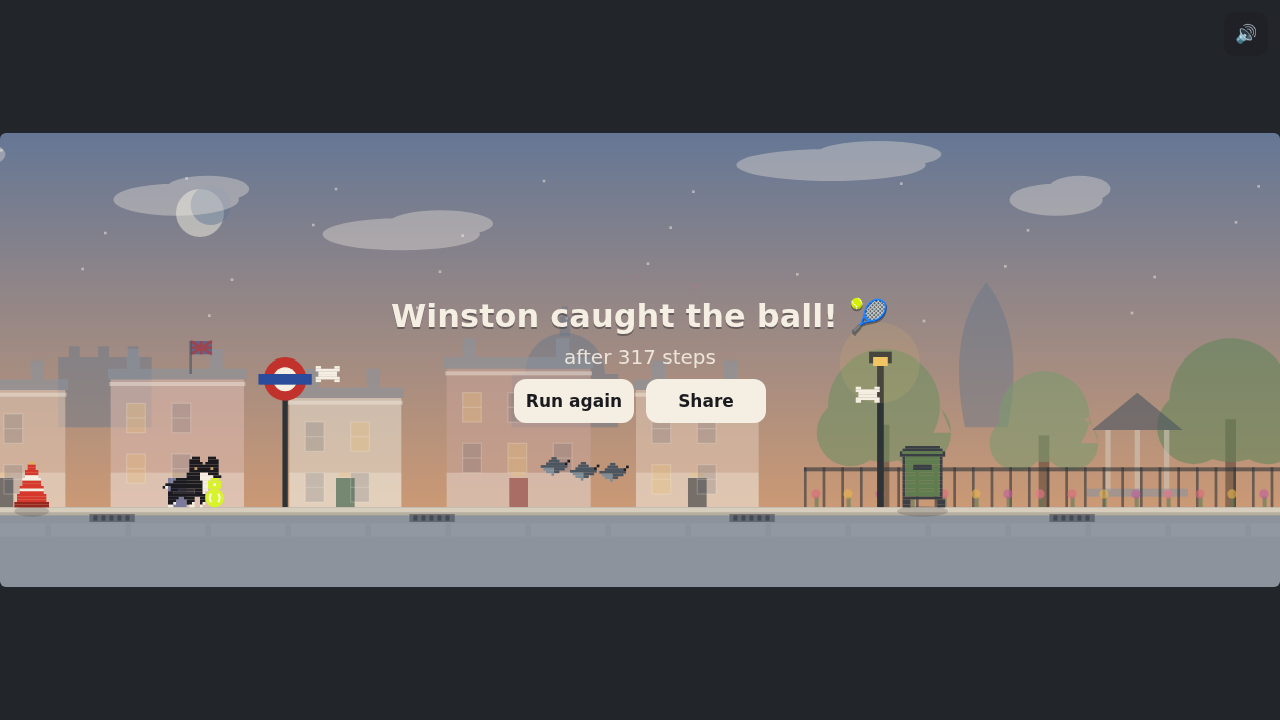
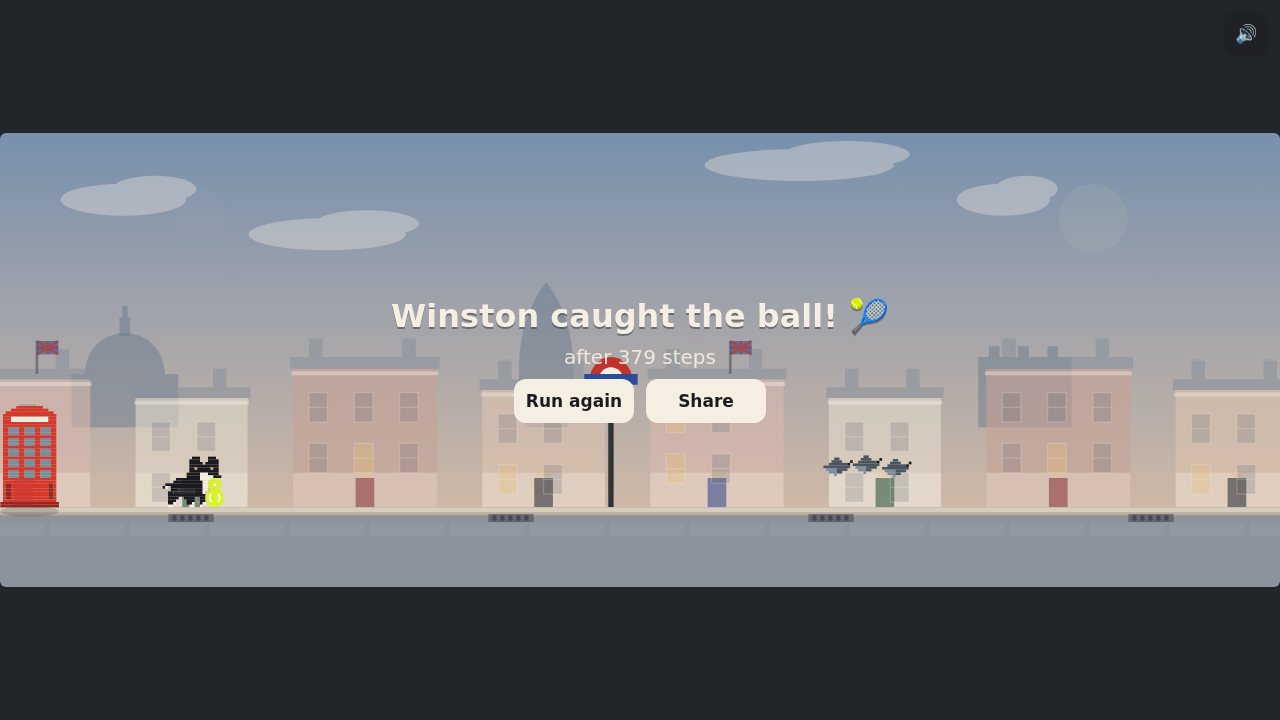
feat: more breathing room between obstacles, less crowded street furniture

diff --git a/src/config.js b/src/config.js
@@ -26,8 +26,8 @@ export const SPEED_GAIN = 12;      // px/s added per 100 points
 export const SCORE_RATE = 10;      // points per second at SPEED_START, scales with speed
 
 // Obstacle spawning
-export const GAP_MIN_SEC = 0.62;
-export const GAP_MAX_SEC = 1.45;
+export const GAP_MIN_SEC = 0.78;
+export const GAP_MAX_SEC = 1.65;
 export const DUCK_AFTER_JUMP_MIN_SEC = 0.9;
 
 // Fixed timestep

diff --git a/src/world/parallax.js b/src/world/parallax.js
@@ -18,7 +18,7 @@ const DUSK_TOP = '#5C6B8A';
 const DUSK_BOT = '#C98A5E';
 
 const MID_TILE = 520;
-const FURN_TILE = 460;
+const FURN_TILE = 620;
 
 function drawTerraceRow(ctx, x, duskT) {
   // Georgian terrace: soft pastel fronts, chimney pots, sash windows.
